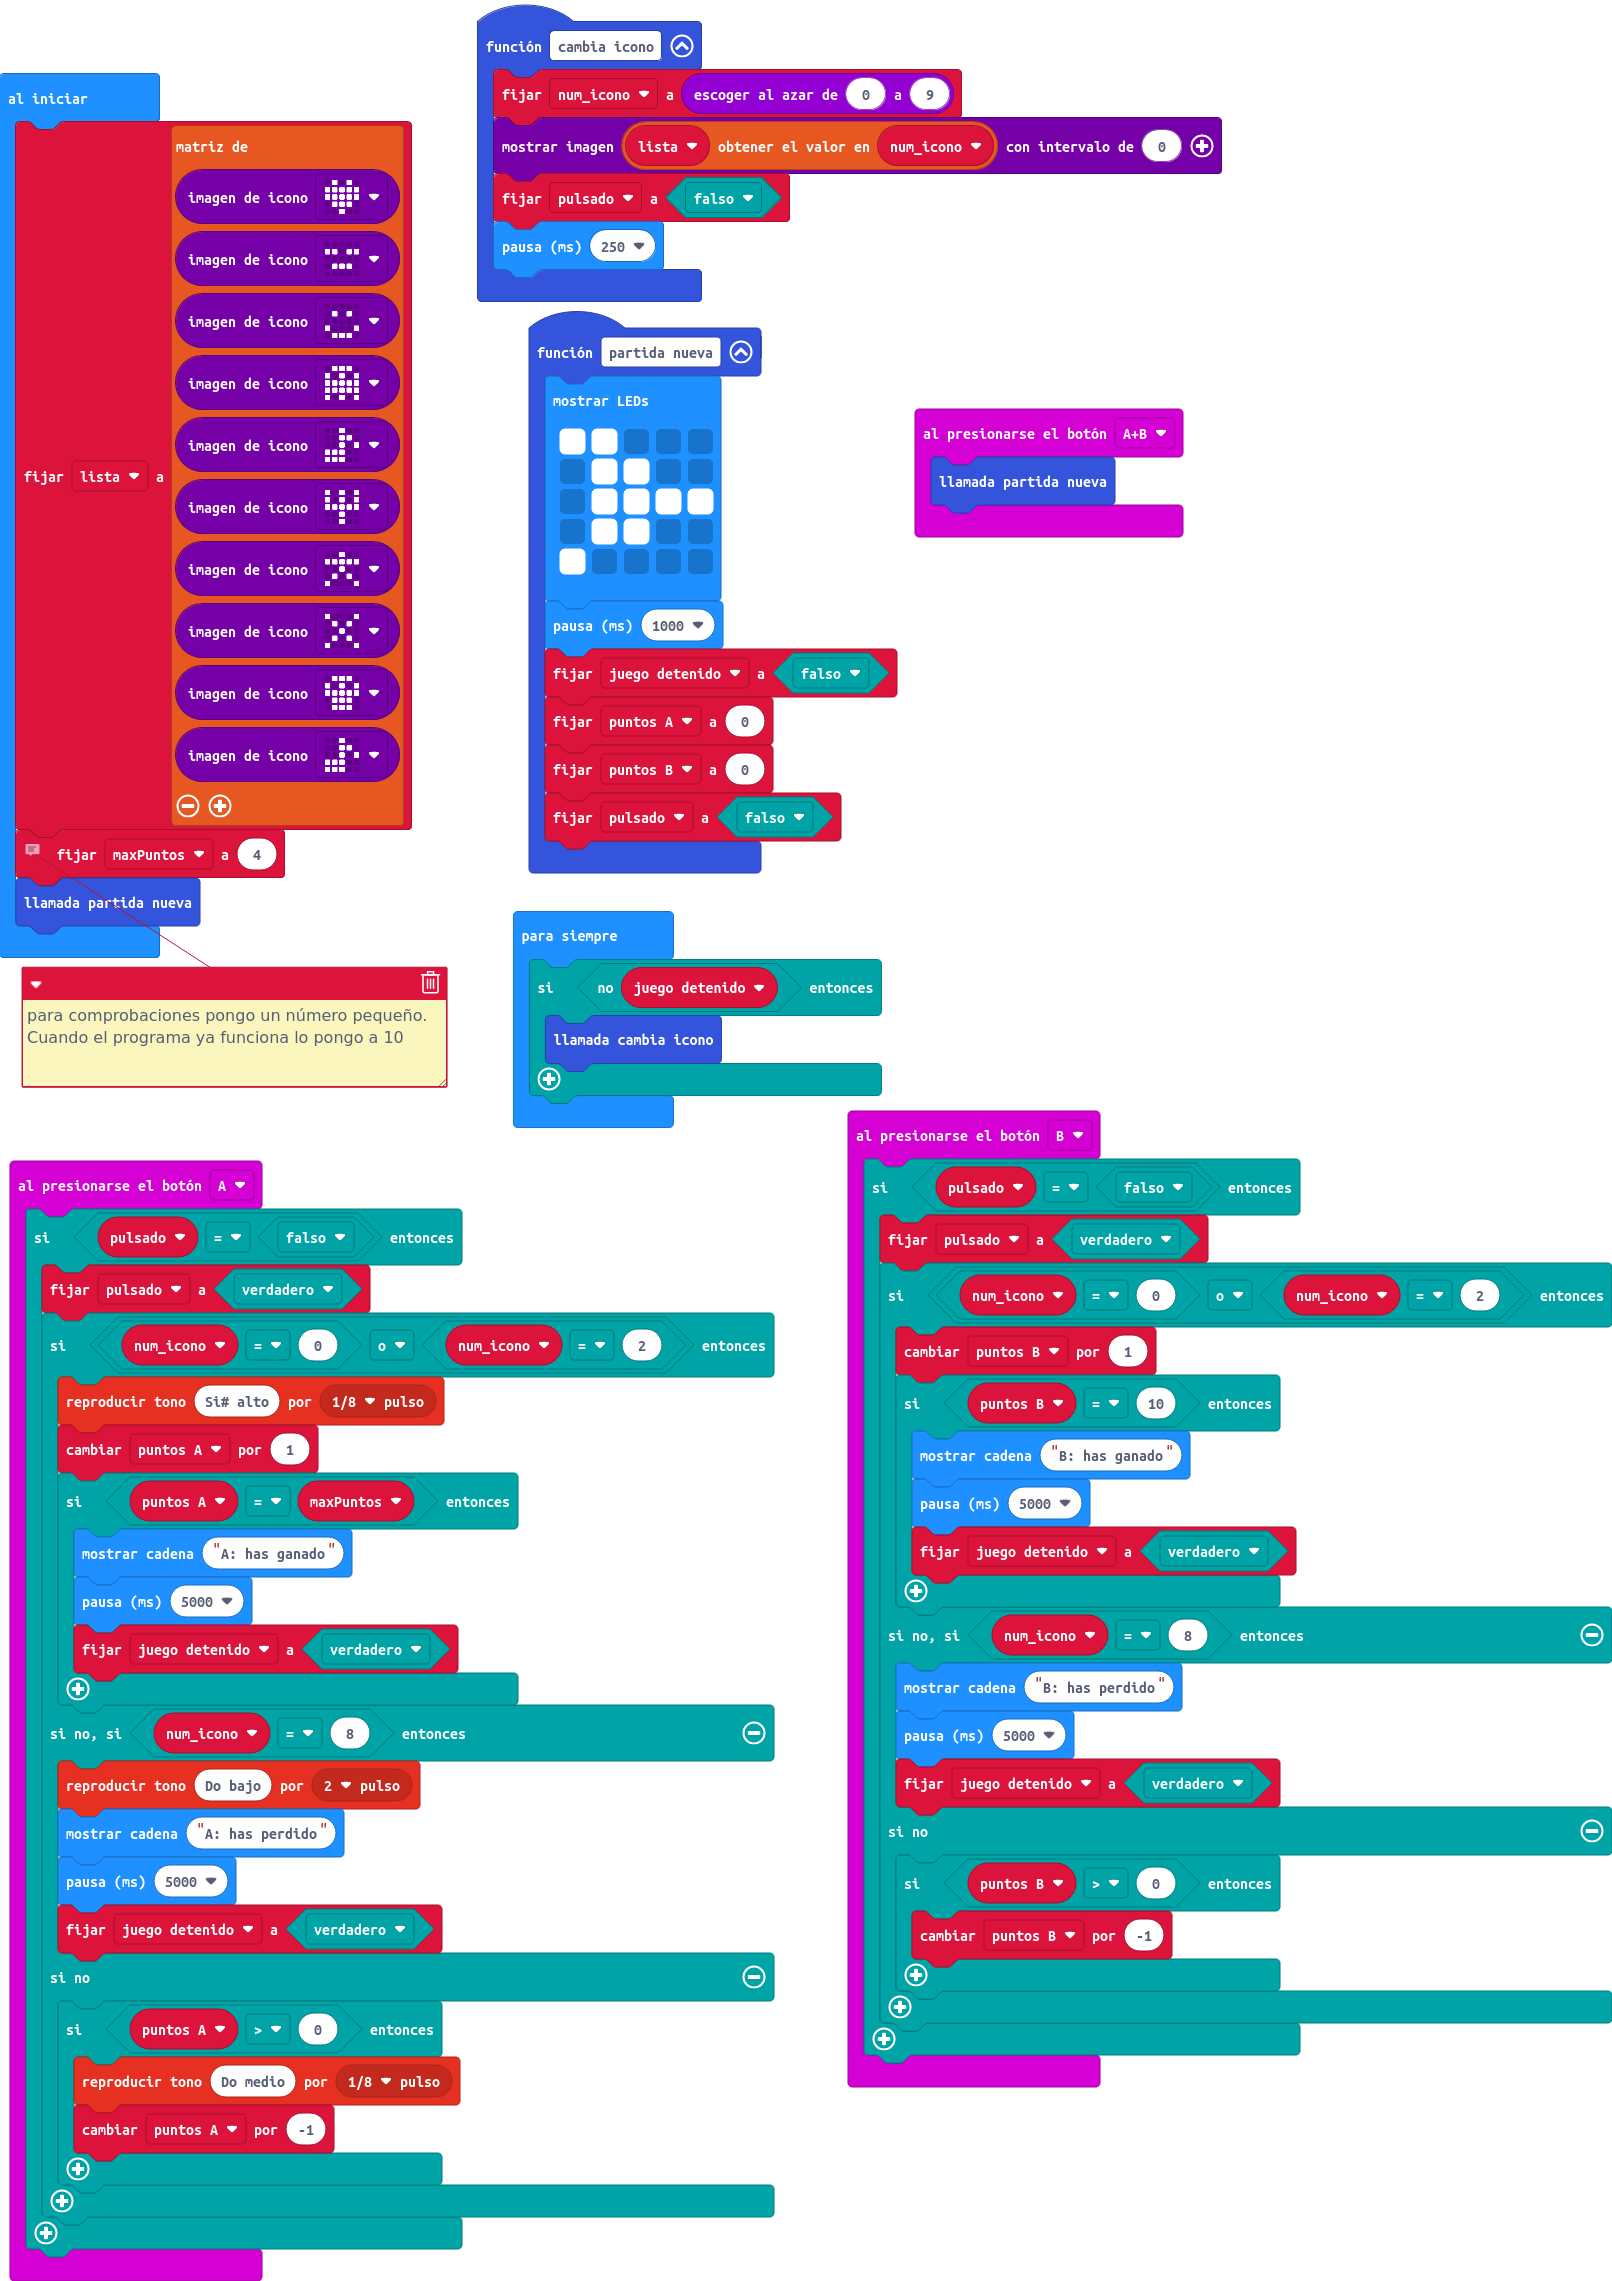
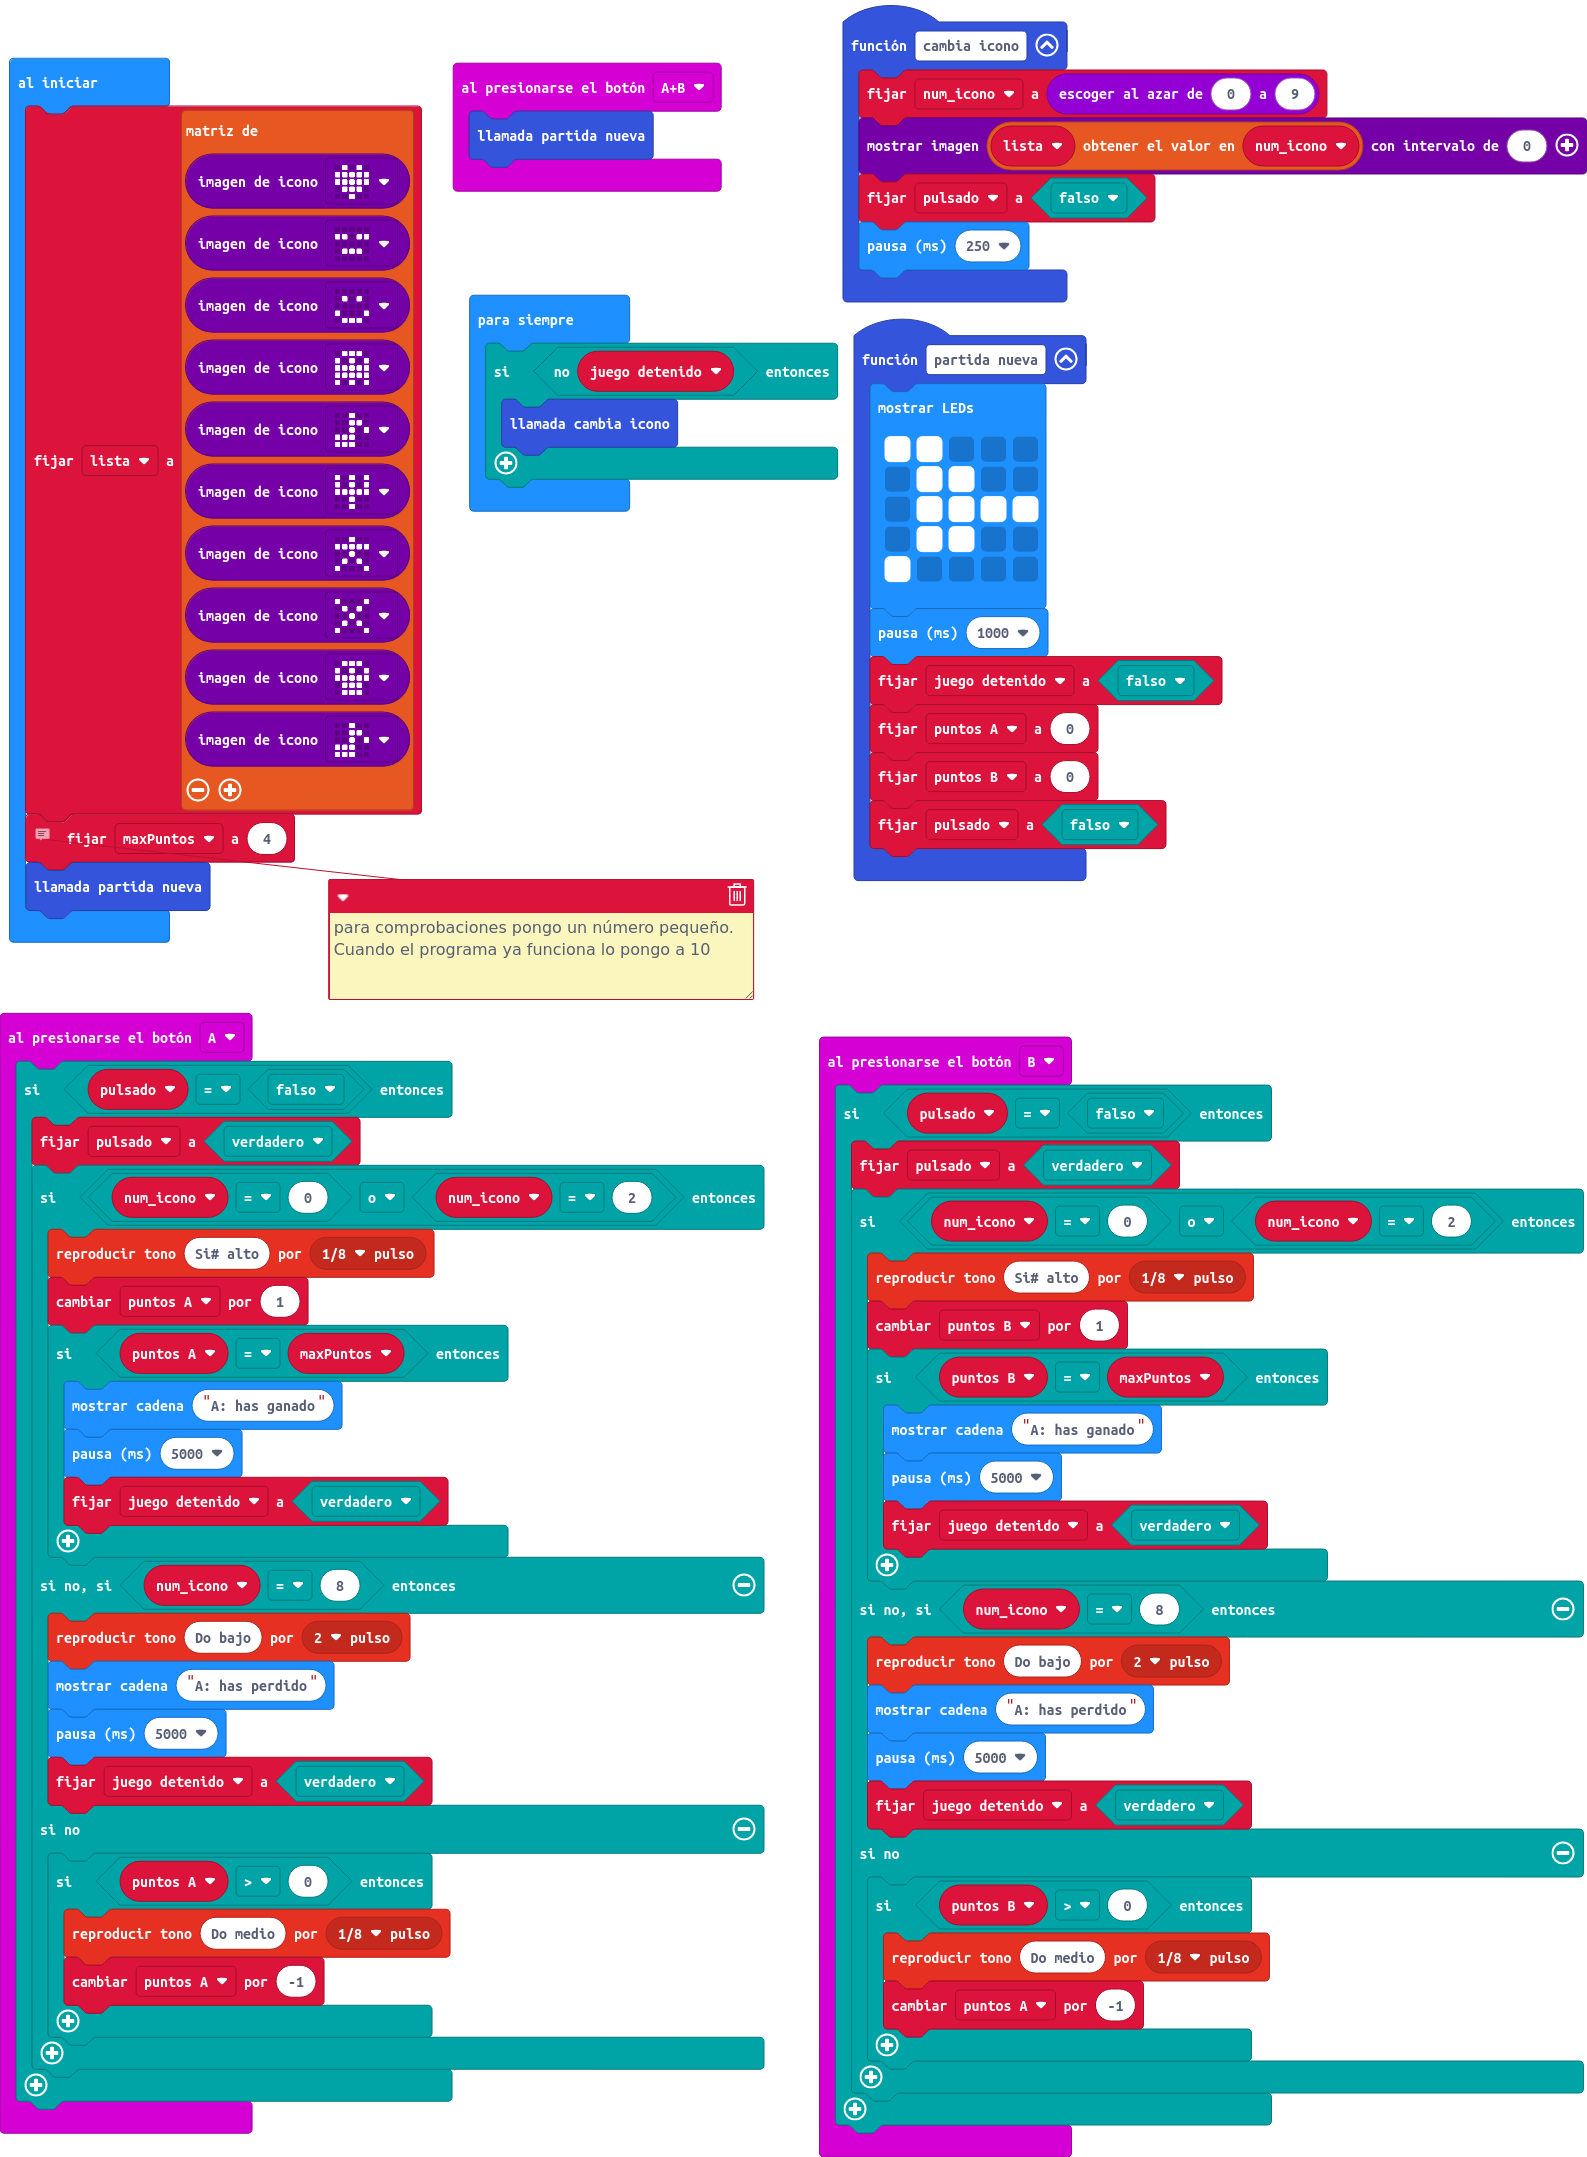
Actualizar main.blocks, main.ts

diff --git a/main.ts b/main.ts
@@ -43,19 +43,22 @@ input.onButtonPressed(Button.B, function () {
     if (pulsado == false) {
         pulsado = true
         if (num_icono == 0 || num_icono == 2) {
+            music.playTone(988, music.beat(BeatFraction.Eighth))
             puntos_B += 1
-            if (puntos_B == 10) {
-                basic.showString("B: has ganado")
+            if (puntos_B == maxPuntos) {
+                basic.showString("A: has ganado")
                 basic.pause(5000)
                 juego_detenido = true
             }
         } else if (num_icono == 8) {
-            basic.showString("B: has perdido")
+            music.playTone(131, music.beat(BeatFraction.Double))
+            basic.showString("A: has perdido")
             basic.pause(5000)
             juego_detenido = true
         } else {
             if (puntos_B > 0) {
-                puntos_B += -1
+                music.playTone(262, music.beat(BeatFraction.Eighth))
+                puntos_A += -1
             }
         }
     }
